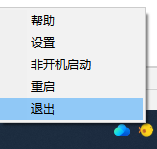
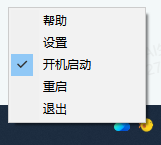
show checked item on tray menu

diff --git a/shouyu/view/tray.py b/shouyu/view/tray.py
@@ -32,8 +32,9 @@ class Tray:
             MenuItem(text='帮助', action=cls.on_help),
             MenuItem(text='设置', action=cls.on_config),
             MenuItem(
-                text='非开机启动' if is_auto_run else '开机启动',
-                action=cls.on_turn_off_auto_run if is_auto_run else cls.on_turn_on_auto_run
+                text='开机启动',
+                action=cls.on_turn_off_auto_run if is_auto_run else cls.on_turn_on_auto_run,
+                checked=cls.display_checked,
             ),
             MenuItem(text='重启', action=cls.on_restart),
             MenuItem(text='退出', action=cls.on_exit),
@@ -77,6 +78,10 @@ class Tray:
     @classmethod
     def on_config(cls, icon, item):
         ProcessManager.open_file('kb.ini')
+
+    @classmethod
+    def display_checked(cls, item):
+        return Registry.is_auto_run(cls.APP_NAME)
 
 
 if __name__ == '__main__':
